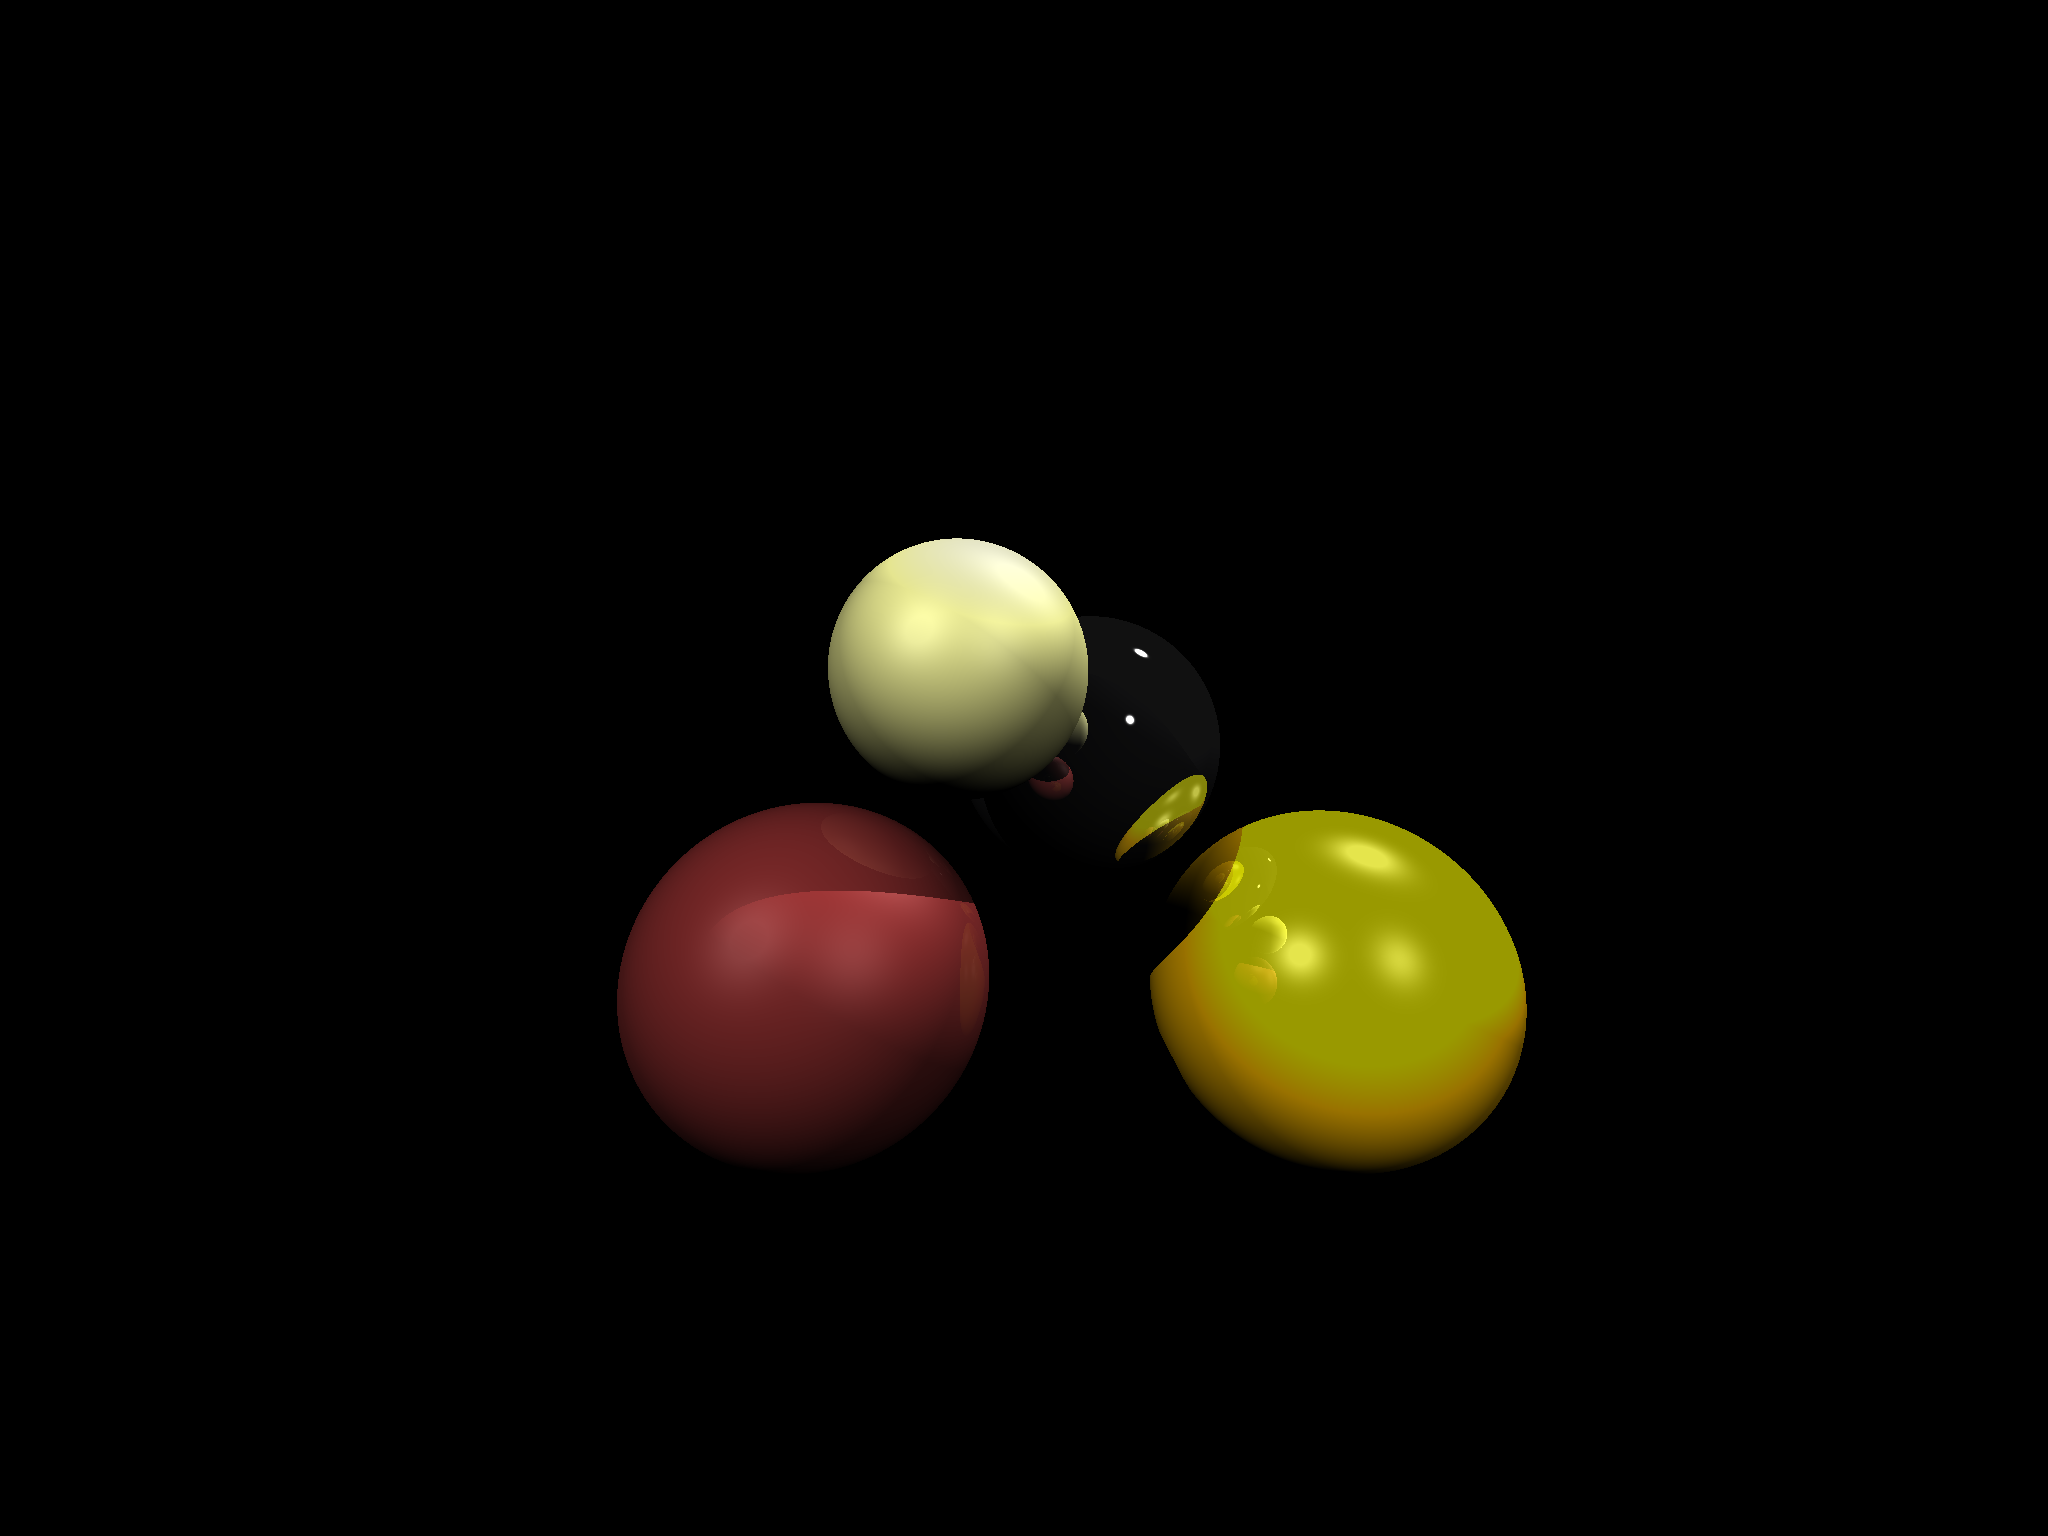
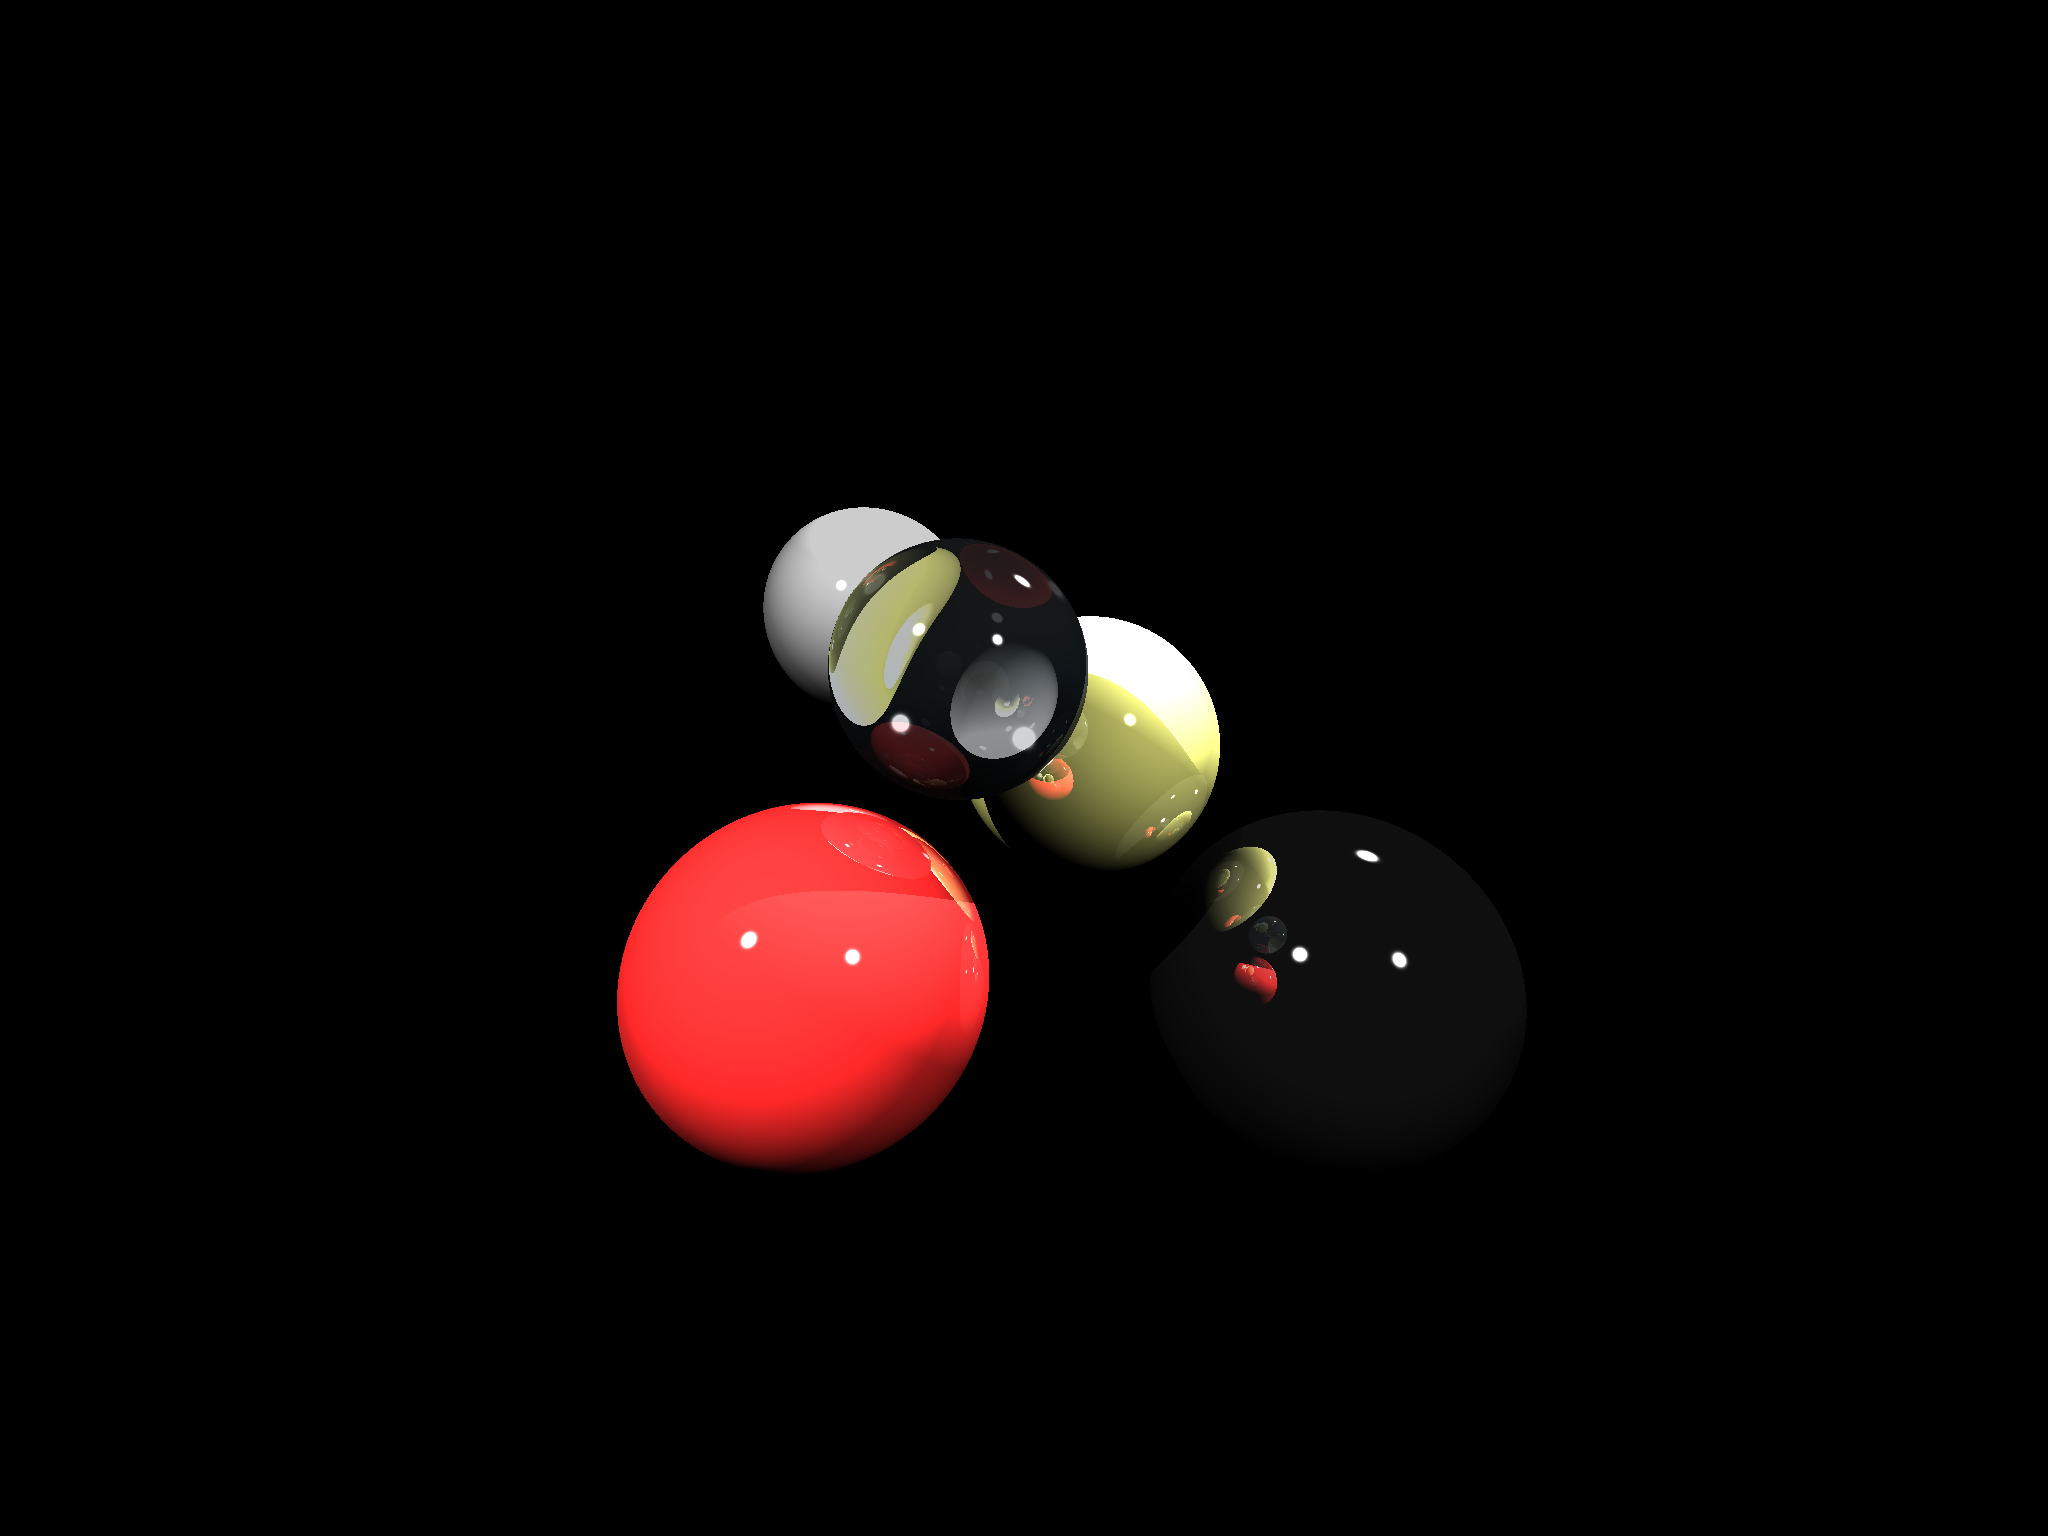
:sparkles: Add a refraction feature
Fixed a bug in sphere::ray_hit_point -- Sphere intersected behind the
ray inside itself.
Fixed a bug in cast_ray -- Ray could hit an incorrect sphere hidden by
another sphere.

Changed region(s): [[0.2812, 0.3125, 0.75, 0.7812]]

diff --git a/render.cpp b/render.cpp
@@ -1,10 +1,8 @@
 #include <algorithm>
-#include <array>
 #include <cmath>
 #include <fstream>
 #include <iostream>
 #include <iterator>
-#include <memory>
 #include <stdexcept>
 #include <utility>
 #include <vector>
@@ -15,6 +13,7 @@
 #include "lua.hpp"
 #include "lua_helpers.h"
 #include "sphere.h"
+#include "util.h"
 #include "vec.h"
 
 vec3f reflect(const vec3f& direction, const vec3f& normal)
@@ -22,6 +21,34 @@ vec3f reflect(const vec3f& direction, const vec3f& normal)
     // Both `direction` and `normal` should be normalized.
     const float cosine{-(normal * direction)};
     return direction + 2.f * cosine * normal;
+}
+
+vec3f refract(
+    const vec3f& direction, const vec3f& normal, const float refractive_index
+) {
+    // Both `direction` and `normal` should be normalized.
+    float cosine_incidence{-(normal * direction)};
+    float relative_index;
+    vec3f new_normal;
+    if (cosine_incidence < 0.f) {
+        // Ray is inside the object.
+        cosine_incidence = -cosine_incidence;
+        relative_index = refractive_index;
+        new_normal = -normal;
+    } else {
+        relative_index = 1.f / refractive_index;
+        new_normal = normal;
+    }
+
+    const float cosine_sq_refract{
+        1 - square(relative_index) * (1 - square(cosine_incidence))
+    };
+    if (cosine_sq_refract < 0.f) {
+        return vec3f::zero;
+    }
+    const float cosine_refract{sqrtf(cosine_sq_refract)};
+    return relative_index * direction
+        + (relative_index * cosine_incidence - cosine_refract) * new_normal;
 }
 
 vec3f perturb(const vec3f& point, const vec3f& direction, const vec3f& normal)
@@ -37,21 +64,21 @@ color cast_ray(
     const std::vector<light>& lights,
     const int recursion_depth = 0
 ) {
+    // Find the closest sphere that the ray intersects with and update `hit_point`
+    auto result{std::end(spheres)};
     vec3f hit_point;
-    // Find the first sphere that the ray intersects with and update
-    // `hit_point`
-    const std::vector<sphere>::const_iterator result{std::find_if(
-        std::begin(spheres),
-        std::end(spheres),
-        [&](const sphere& s) -> bool {
-            if (const auto opt{s.ray_hit_point(origin, direction)}) {
+    for (auto it = std::begin(spheres); it != std::end(spheres); ++it) {
+        if (const auto opt{it->ray_hit_point(origin, direction)}) {
+            if (
+                result == std::end(spheres)
+                    || (*opt - origin).magnitude_sq() < (hit_point - origin).magnitude_sq()
+            ) {
                 hit_point = *opt;
-                return true;
-            } else {
-                return false;
+                result = it;
             }
         }
-    )};
+    }
+
     // No sphere intersects with the ray
     if (result == std::end(spheres)) { return color::black; }
 
@@ -100,19 +127,31 @@ color cast_ray(
     }
 
     color reflect_color{color::black};
+    color refract_color{color::black};
     if (recursion_depth > 0) {
         // Reflection
         const vec3f reflect_dir{reflect(direction, normal)};
         // Perturb `hit_point` to prevent reflecting itself.
-        const vec3f target_point{perturb(hit_point, reflect_dir, normal)};
+        const vec3f reflect_hit{perturb(hit_point, reflect_dir, normal)};
         reflect_color = cast_ray(
-            target_point, reflect_dir, spheres, lights, recursion_depth - 1
+            reflect_hit, reflect_dir, spheres, lights, recursion_depth - 1
+        );
+
+        // Refraction
+        const vec3f refract_dir{
+            refract(direction, normal, material.refractive_index)
+        };
+        // Perturb `hit_point` to prevent refracting again.
+        const vec3f refract_hit{perturb(hit_point, refract_dir, normal)};
+        refract_color = cast_ray(
+            refract_hit, refract_dir, spheres, lights, recursion_depth - 1
         );
     }
 
     return diffuse_intensity * material.diffuse_color * material.diffuse_const
         + specular_intensity * color::white * material.specular_const
-        + reflect_color * material.reflect_const;
+        + reflect_color * material.reflect_const
+        + refract_color * material.refract_const;
 }
 
 std::pair<float, float> trans_scene(
@@ -150,7 +189,7 @@ canvas render(
         for (int i = 0; i < width; ++i) {
             const auto [x, y]{trans_scene(i, j, width, height, fov_2)};
             const auto direction{vec3f{x, y, 1}.normalized()};
-            cvs[{i, j}] = cast_ray(origin, direction, spheres, lights, 8);
+            cvs[{i, j}] = cast_ray(origin, direction, spheres, lights, 4);
         }
     }
     return cvs;

diff --git a/sphere.cpp b/sphere.cpp
@@ -1,6 +1,7 @@
 #include <cmath>
 #include <optional>
 #include "sphere.h"
+#include "util.h"
 
 sphere::sphere(
     const vec3f& center,
@@ -12,27 +13,22 @@ std::optional<vec3f> sphere::ray_hit_point(
     const vec3f& origin,
     const vec3f& direction
 ) const {
-    const vec3f center_origin{center - origin};
-    const vec3f norm_direction{direction.normalized()};
-    const float origin_to_center_sq{center_origin.magnitude_sq()};
-    const float origin_to_perpend{center_origin * norm_direction};
-    const float radius_sq{radius * radius};
+    // Solve:
+    // ||x - center|| = radius
+    // x = origin + t direction (0 <= t, ||direction|| = 1)
+    const vec3f origin_center{center - origin};
+    const float inner_prod{direction * origin_center};
+    const float discriminant{
+        square(radius) - origin_center.magnitude_sq() + square(inner_prod)
+    };
+    if (discriminant < 0.f) { return {}; }
 
-    if (origin_to_perpend < 0.f && origin_to_center_sq > radius_sq) {
-        // sphere is behind the ray and does not intersect
+    const float sqrt_d{sqrtf(discriminant)};
+    if (const float t1{inner_prod - sqrt_d}; t1 >= 0.f) {
+        return origin + t1 * direction;
+    } else if (const float t2{inner_prod + sqrt_d}; t2 >= 0.f) {
+        return origin + t2 * direction;
+    } else {
         return {};
     }
-
-    const float center_to_perpend_sq{origin_to_center_sq
-        - origin_to_perpend * origin_to_perpend};
-    if (center_to_perpend_sq > radius_sq) {
-        // sphere is in front of the ray and does not intersect
-        return {};
-    }
-
-    // sphere intersects with the ray
-    const float hit_point_to_perpend_sq{radius_sq - center_to_perpend_sq};
-    const float origin_to_hit_point{(origin_to_perpend >= 0.f) *
-        (origin_to_perpend - sqrtf(hit_point_to_perpend_sq))};
-    return origin + origin_to_hit_point * norm_direction;
 }

diff --git a/material.cpp b/material.cpp
@@ -5,24 +5,30 @@ material::material(
     float diffuse_const,
     float specular_const,
     float shininess,
-    float reflect_const
+    float reflect_const,
+    float refract_const,
+    float refractive_index
 ) : diffuse_color(diffuse_color),
     diffuse_const(diffuse_const),
     specular_const(specular_const),
     shininess(shininess),
-    reflect_const(reflect_const)
+    reflect_const(reflect_const),
+    refract_const(refract_const),
+    refractive_index(refractive_index)
 {}
 
-const material material::gold(color::gold, .6f, .3f, 30.f, .4f);
-const material material::silver(color::silver, .6f, .3f, 30.f, .4f);
-const material material::ivory(color::ivory * .6f, .9f, .1f, 10.f, .01f);
+const material material::gold(color::gold, .6f, .3f, 30.f, .4f, 0.f, 1.f);
+const material material::silver(color::silver, .6f, .3f, 30.f, .4f, 0.f, 1.f);
+const material material::ivory(color::ivory * .6f, .9f, .1f, 10.f, .01f, 0.f, 1.f);
+const material material::glass({.6f, .7f, .8f}, 0.f, .5f, 125.f, .1f, .8f, 1.5f);
+const material material::mirror(color::white, 0.f, 10.f, 1425.f, .8f, 0.f, 1.f);
 
 material material::metallize(color c)
 {
-    return material(c, .6f, .3f, 30.f, .4f);
+    return material(c, .6f, .3f, 30.f, .4f, 0.f, 1.f);
 }
 
 material material::rubberize(color c)
 {
-    return material(c, .9f, .1f, 10.f, 0.f);
+    return material(c, .9f, .1f, 10.f, 0.f, 0.f, 1.f);
 }

diff --git a/lua_helpers.cpp b/lua_helpers.cpp
@@ -49,11 +49,12 @@ material lua_getmaterial(lua_State *L)
 
     color diffuse_color{lua_getcolor(L)};
 
-    const char *fields[4]{
-        "diffuse_const", "specular_const", "shininess", "reflect_const"
+    const char *fields[6]{
+        "diffuse_const", "specular_const", "shininess", "reflect_const",
+        "refract_const", "refractive_index"
     };
-    float values[4];
-    for (int i = 0; i < 4; ++i) {
+    float values[6];
+    for (int i = 0; i < 6; ++i) {
         lua_getfield(L, -1, fields[i]);
         if (!lua_isnumber(L, -1)) { throw lua_exception(__func__, "number"); }
 
@@ -61,7 +62,10 @@ material lua_getmaterial(lua_State *L)
         lua_pop(L, 1);
     }
     lua_pop(L, 1);
-    return material(diffuse_color, values[0], values[1], values[2], values[3]);
+    return material(
+        diffuse_color,
+        values[0], values[1], values[2], values[3], values[4], values[5]
+    );
 }
 
 float lua_getradius(lua_State *L)

diff --git a/material.h b/material.h
@@ -10,7 +10,9 @@ public:
         float diffuse_const,
         float specular_const,
         float shininess,
-        float reflect_const
+        float reflect_const,
+        float refract_const,
+        float refractive_index
     );
 
     color diffuse_color;
@@ -18,10 +20,14 @@ public:
     float specular_const;
     float shininess;
     float reflect_const;
+    float refract_const;
+    float refractive_index;
 
     static const material gold;
     static const material silver;
     static const material ivory;
+    static const material glass;
+    static const material mirror;
 
     static material metallize(color);
     static material rubberize(color);

diff --git a/util.h b/util.h
@@ -1,0 +1,9 @@
+#ifndef UTIL_H
+#define UTIL_H
+
+template <typename T>
+inline T square(T n) {
+    return n * n;
+}
+
+#endif /* ifndef UTIL_H */
